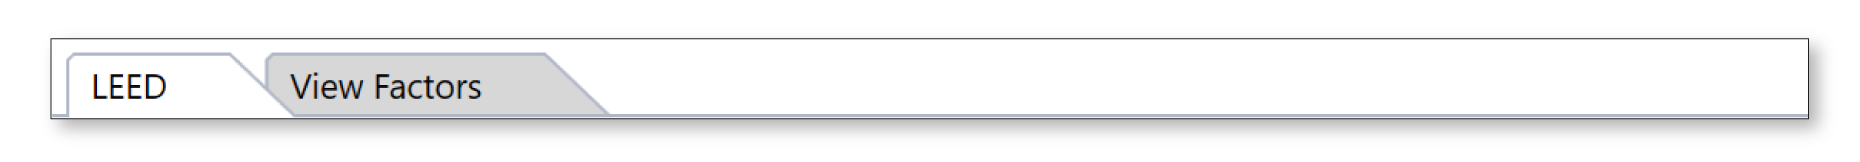
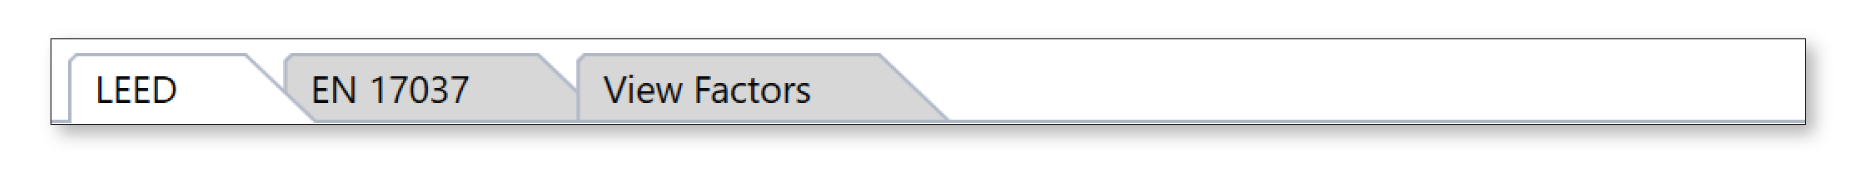
EN17037 view

Changed region(s): [[0.0312, 0.3086, 0.5301, 0.7407], [0.0, 0.216, 0.9978, 0.2469], [0.0312, 0.4321, 0.0935, 0.6173]]

diff --git a/docs/viewEN17037.rst b/docs/viewEN17037.rst
@@ -1,0 +1,74 @@
+EN 17037 View Out
+=========================
+EN 17037 is a unified daylighting standard published by the European Committee for Standardization (`CEN`_) in 2018 (CEN 17037:2018). It covers four aspects of daylight in buildings, the second of which -- *View Out* -- is included in ClimateStudio's `View Analysis`_  workflow (as of ClimateStudio v1.5). 
+
+At the top of the View result's EN 17037 tab is a dashboard showing the percentage of the building's floor area that falls into each of four compliance categories: Failing, Minimum, Medium, and High. A falsecolor map of qualifying view locations is also displayed the Rhino viewport:
+
+.. _CEN: https://www.cen.eu/
+.. _View Analysis: viewAnalysis.html
+.. _results panel: results.html
+
+.. figure:: images/result_dashboardENView.png
+   :width: 900px
+   :align: center
+   
+.. figure:: images/result_viewportENViewLevel.png
+   :width: 900px
+   :align: center
+   
+The compliance levels are based on three assessments, which are carried out for every view position:
+
+- **Horizontal Sight Angle**: The total horizontal angle (in the XY-pane) subtended by windows from the viewing position. Achieving Minimum compliance requires an angle of at least 14 degrees. Medium and High levels of compliance require angles of 28 and 54 degrees respectively.
+
+.. figure:: images/ENViewAngle.png
+   :width: 700px
+   :align: center
+
+- **Outside View Distance**: The median view distance from the window to objects seen outside the window. Thresholds for Minimum, Medium, and High levels of compliance are 6, 20, and 50 meters. The median is assessed using all pixels containing through-window views to the outside from the viewing position. The sky and un-modeled portions of the ground hemisphere are considered to be infinitely distant, so if these elements compose more than half of the outside view, the median distance will also be infinite.
+
+.. _results panel: results.html
+   
+- **Number of View Layers**: EN 17037 defines three view layers: Sky, Ground, and Landscape. The Landscape layer includes both natural elements and buildings -- in other words, everything *except* sky and man-made ground. A view position must see at least the Landscape layer in order to achieve Minimum compliance. Medium compliance requires seeing the Landscape layer plus one other. High compliance requires seeing all three. ClimateStudio considers all exterior elements not labeled with a ground tag (see `setup instructions`_) to be part of the Landscape layer. ClimateStudio also considers ground-hemisphere view rays that escape the scene within five degrees of the horizon to be part of the Landscape layer. The justification for this is that distant, near-horizon views must contain *either* buildings or natural landscape, even if neither is modeled explicitly.
+
+.. _setup instructions: viewAnalysis.html
+   
+The overall compliance level for each view position is the worst performer among the three criteria above. 
+
+Below the dashboard is the Room Table, which lists compliance level percentages for each regularly occupied floor area, as well as a Viewport Settings bar, which contains a legend, a settings button (6), and a dropdown (5), which can be used to change the displayed metric:
+
+.. figure:: images/result_panelENViewTable.png
+   :width: 900px
+   :align: center
+   
+Metrics include compliance levels for each assessment criterion, as well as their underlying quantities, e.g. Horizontal Sight Angle, which is displayed using a continuous gradient:
+
+.. figure:: images/result_viewportENSightAngle.png
+   :width: 900px
+   :align: center
+
+
+
+
+
+
+
+
+
+
+
+
+
+
+
+
+
+
+
+
+
+
+
+
+
+
+

diff --git a/docs/viewAnalysis.rst b/docs/viewAnalysis.rst
@@ -1,7 +1,7 @@
 
 View Analysis
 ================================================
-This workflow assesses occupant views and computes eligibility for the LEED v4 Quality Views credit. It can also be used to calculate view factors and view distances to specific model layers or objects of interest.
+This workflow assesses occupant views and computes eligibility for the LEED v4 Quality Views credit (and, as of ClimateStudio v1.5, the EN 17037 European standard). It can also be used to calculate view factors and view distances to specific model layers or objects of interest.
 
 Simulation Setup
 --------------------
@@ -20,13 +20,13 @@ To prepare a model for simulation, work your way though the materials and occupi
 .. _Occupied Areas: occupiedAreas.html
 
 
-When assigning materials, a **VisionGlass** tag must be attached to layers that represent exterior vision glazing. Although the materials specified in the Material column determine the optical behavior of surfaces in the model (and hence what can be seen from any vantage), a separate View Tag is required to distinguish the "vision glazing," because it is specifically through these surfaces that views and view distances are measured.
+When assigning materials, a **VisionGlass** tag must be attached to layers that represent exterior vision glazing. Although the materials specified in the Material column determine the optical behavior of surfaces in the model (and hence what can be seen from any vantage), a separate View Tag is required to distinguish the "vision glazing," because it is specifically through these surfaces that views and view distances are measured. Please note that **layers not given a material (left column) will not be included in the simulation**.
  
 .. figure:: images/result_viewSetup.png
    :width: 900px
    :align: center
 
-If you are submitting for LEED certification, you may also wish to organize and tag model layers containing features of visual interest, including *nature*, streetscapes busy with *movement* (LEED v4.0), and *art* or *urban landmarks* (LEED v4.1).
+If you are submitting for LEED certification, you may also wish to organize and tag model layers containing features of visual interest, including *nature*, streetscapes busy with *movement* (LEED v4.0), and *art* or *urban landmarks* (LEED v4.1). If you are testing for EN 17037 compliance, the only tag of relevance (other than VisionGlass) is the *ground* tag.
 
 If you have not done any lighting simulations in ClimateStudio, it is recommended that you initially go through the `Lighting Model Setup`_ video tutorial (5 minutes). 
 The Rhino file used in the tutorial is available for `download`_.
@@ -39,7 +39,7 @@ Once all required inputs have been populated, a simulation is invoked by pressin
  
 Simulation Results
 --------------------
-The View Analysis workflow performs multiple types of view assessment. When the calculation is finished, or when a saved result is loaded, the `results panel`_ will show a summary with two tabs. Use the links below to skip ahead to the option of interest.
+The View Analysis workflow performs multiple types of view assessment. When the calculation is finished, or when a saved result is loaded, the `results panel`_ will show a summary with three tabs. Use the links below to skip ahead to the option of interest.
 
 .. _results panel: results.html
 
@@ -51,6 +51,7 @@ The View Analysis workflow performs multiple types of view assessment. When the 
    :maxdepth: 1
    
    LEED<viewLEED.rst>
+   EN 17037<viewEN17037.rst>
    View Factors<viewFactors.rst>
 
 

diff --git a/docs/EN17037.rst b/docs/EN17037.rst
@@ -1,19 +1,29 @@
 
 EN 17037
 ================================================
-EN 17037 is a unified daylighting standard published by the European Committee for Standardization (`CEN`_) in 2018 (CEN 17037:2018). It covers four aspects of daylight in buildings, including daylight provision, views, access to sunlight, and prevention of glare. As of version 1.5, ClimateStudio supports compliance calculations for the first of these: daylight provision. To run an assessment of your project, use the Daylight Availability workflow and select the EN 17037 sub-workflow. For detailed instructions, follow the links below:
+EN 17037 is a unified daylighting standard published by the European Committee for Standardization (`CEN`_) in 2018 (CEN 17037:2018). It covers four aspects of daylight in buildings, including daylight provision, views, access to sunlight, and prevention of glare. As of version 1.5, ClimateStudio supports compliance calculations for the first two of these: 
 
 .. _CEN: https://www.cen.eu/
 
+Daylight Provision
+~~~~~~~~~~~~~~~~~~~~~~
+To compute daylight provision compliance, use the Daylight Availability workflow and select the EN 17037 sub-workflow. For detailed instructions, follow the links below:
 
 - `Setup (Daylight Availability Workflow)`_
-- `EN 17037 Results`_
+- `EN 17037 Daylight Results`_
 
 .. _Setup (Daylight Availability Workflow): daylightAvailability.html
-.. _EN 17037 Results: daylightEN17037.html
+.. _EN 17037 Daylight Results: daylightEN17037.html
 
+View Out
+~~~~~~~~~~~~~~~~~~~~~~
+To compute view compliance, use the View Analysis workflow, which automatically runs an EN 17037 assessment. For detailed instructions, follow the links below:
 
+- `Setup (View Workflow)`_
+- `EN 17037 View Results`_
 
+.. _Setup (View Workflow): viewAnalysis.html
+.. _EN 17037 View Results: viewEN17037.html
 
 
 
